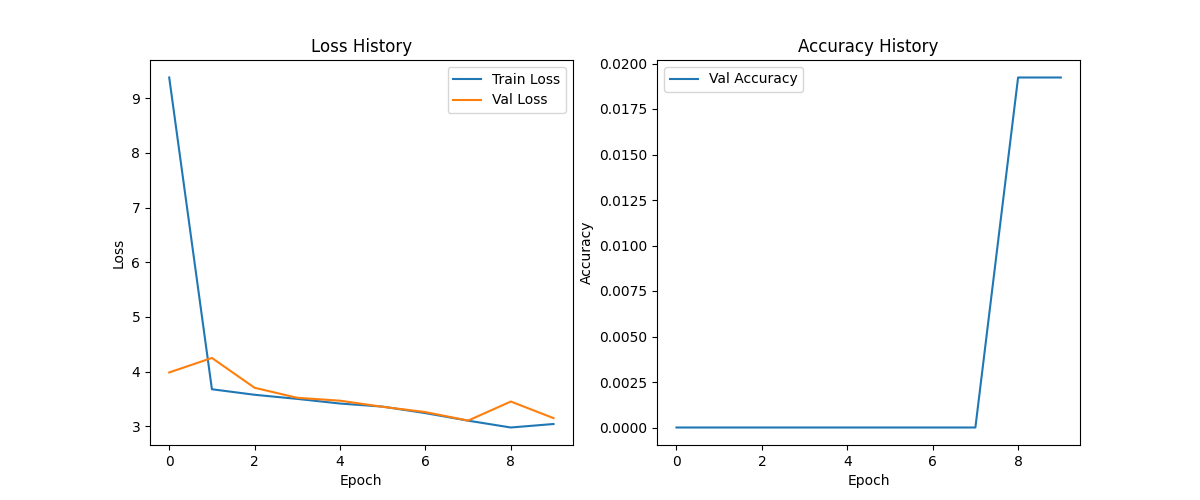
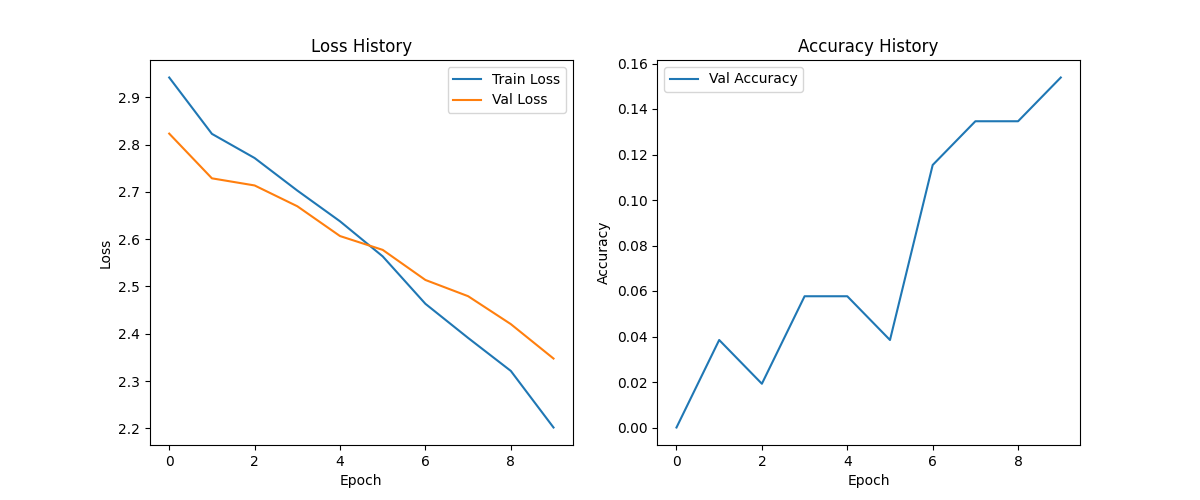
eval check

diff --git a/scripts/train_crnn.py b/scripts/train_crnn.py
@@ -184,13 +184,26 @@ def train_crnn(data_dir: Path, output_dir: Path, epochs: int = 50, best_model_na
     
     # モデルとラベル変換器
     model = create_crnn_model().to(device)
+    # 事前学習（ベース）モデルからのファインチューニングをサポート
+    base_path = os.getenv('CRNN_BASE_MODEL_PATH') or str(Path('models') / 'crnn_model_best.pth')
+    try:
+        if Path(base_path).exists():
+            checkpoint = torch.load(base_path, map_location=device)
+            state_dict = checkpoint.get('model_state_dict', checkpoint)
+            model.load_state_dict(state_dict, strict=False)
+            print(f"ベースモデルをロード: {base_path}")
+        else:
+            print(f"ベースモデル未検出: {base_path}（新規初期化）")
+    except Exception as e:
+        print(f"ベースモデルのロードに失敗: {e}（新規初期化で続行）")
     converter = CTCLabelConverter()
     
     # 損失関数（CTC Loss）
     criterion = nn.CTCLoss(blank=0, reduction='mean', zero_infinity=True)
     
     # 最適化器
-    optimizer = optim.Adam(model.parameters(), lr=0.001)
+    lr = float(os.getenv('CRNN_LR', '0.001'))
+    optimizer = optim.Adam(model.parameters(), lr=lr)
     scheduler = optim.lr_scheduler.ReduceLROnPlateau(optimizer, patience=5, factor=0.5)
     
     # 訓練履歴
